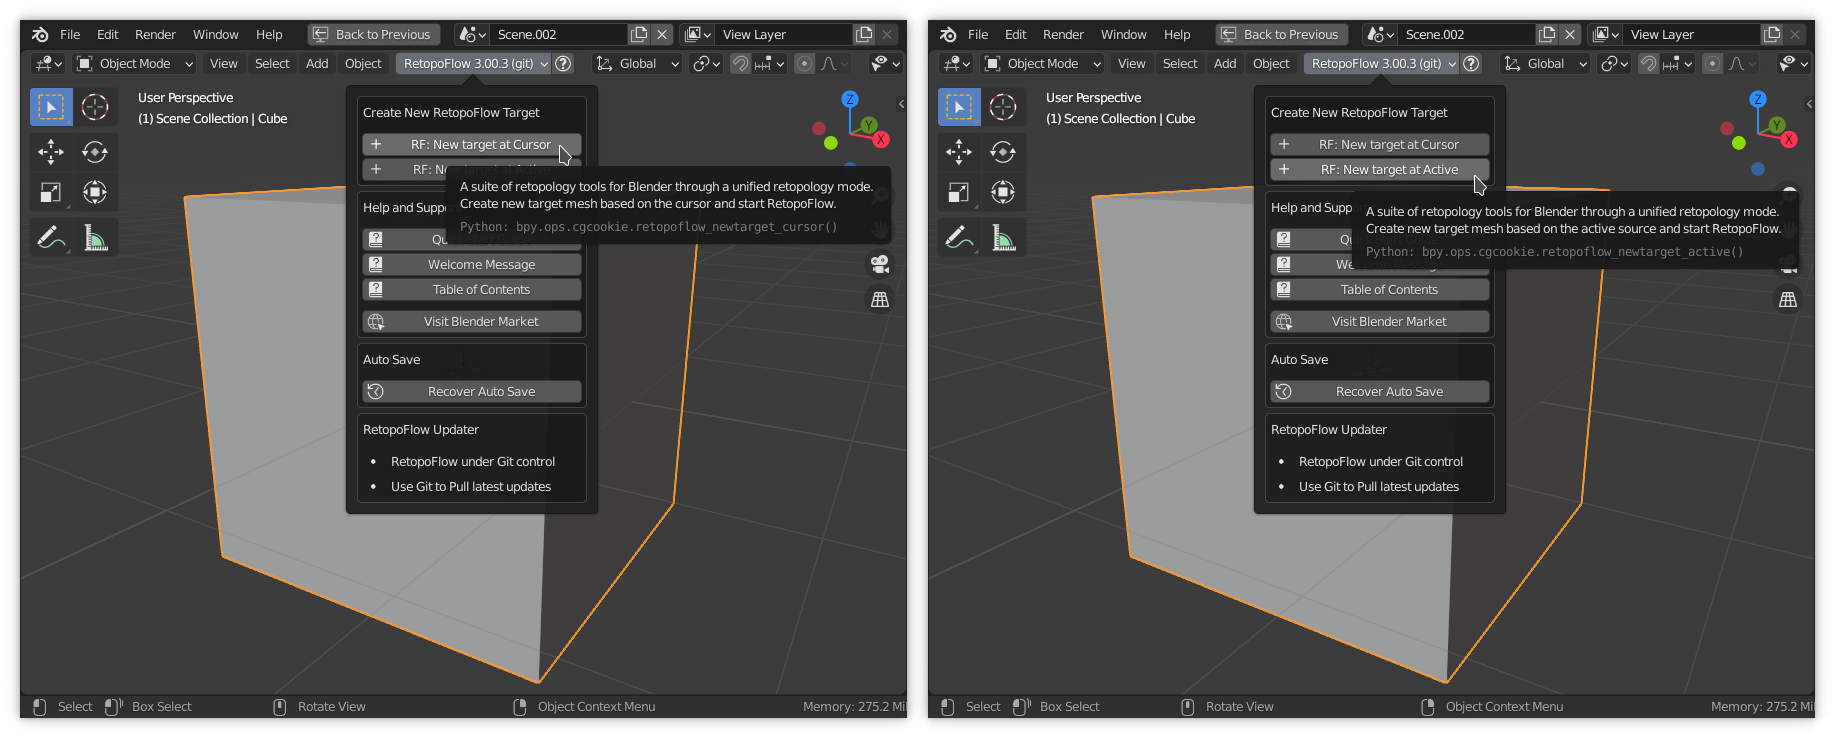
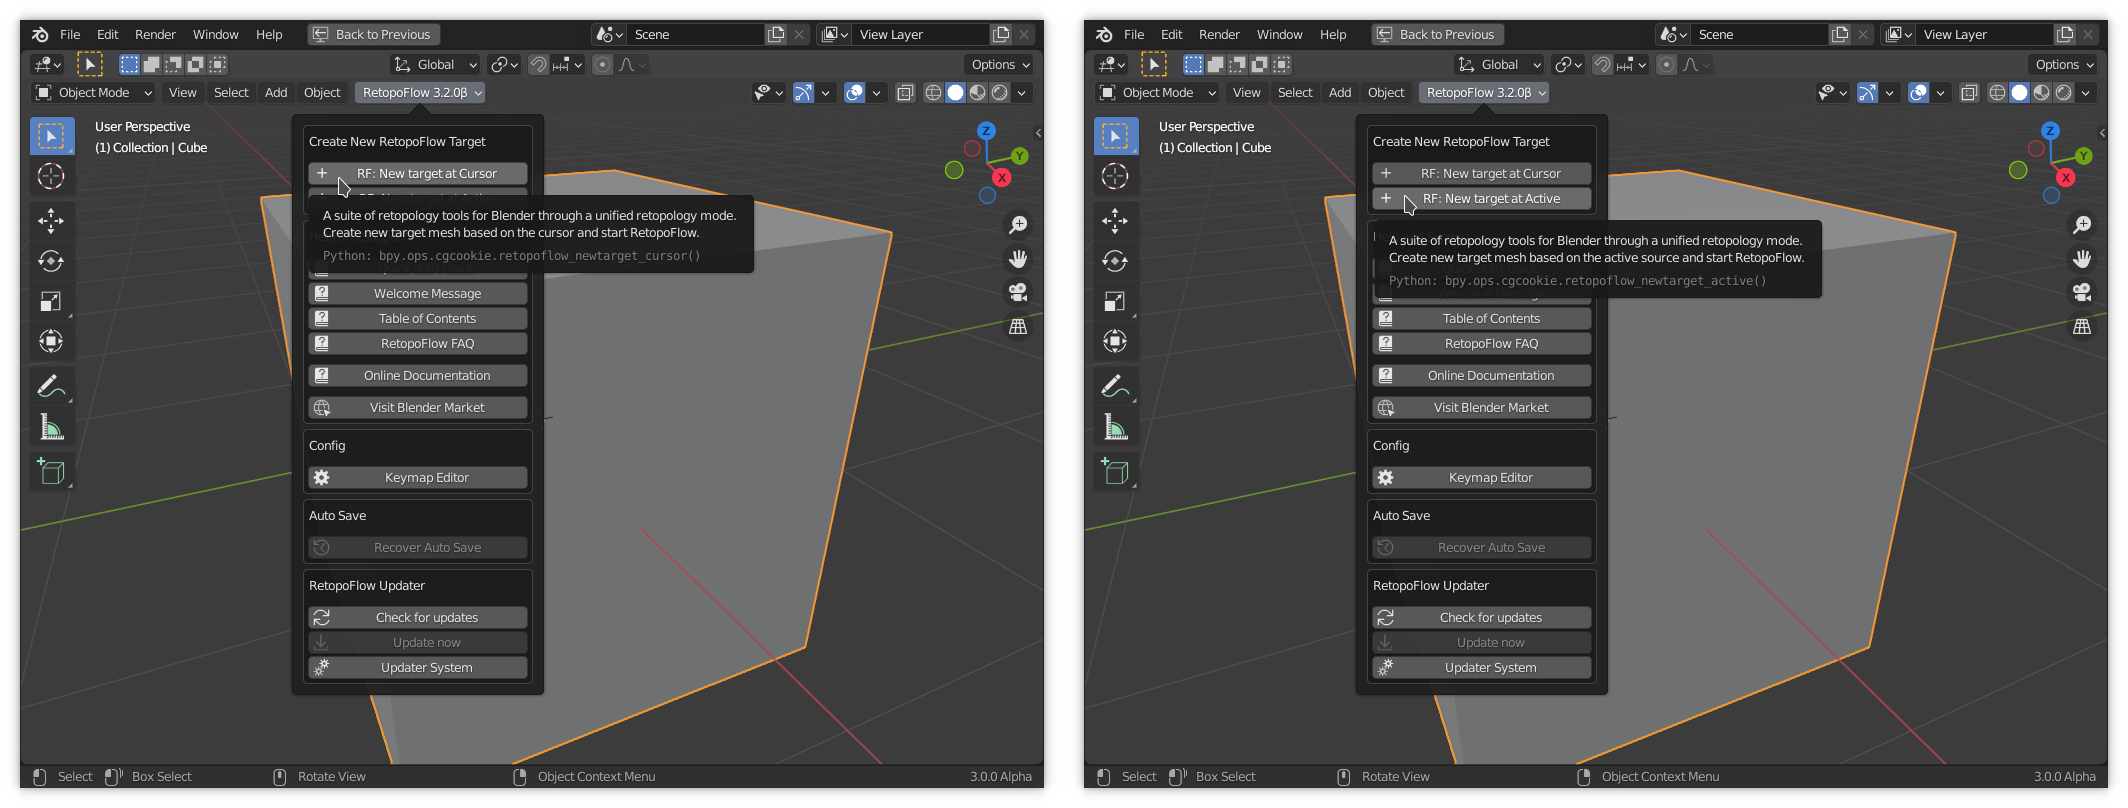
updated docs with new screenshots and version

diff --git a/docs/changelist.md b/docs/changelist.md
@@ -2,12 +2,12 @@
 
 This document contains details about what has changed in RetopoFlow since version 2.x.
 
-### RetopoFlow 3.1.0&rarr;3.1.1
+### RetopoFlow 3.1.0&rarr;3.2.0
 
+- Added builtin Keymap Editor (prototype)
 - Significantly improved performance of tools with large target meshes!
 - Now target mesh visualization will split (under the hood) when working on a small portion, improving feedback performance for some actions
 - Improved Updater System
-- Added builtin Keymap Editor (prototype)
 - Able to hide/reveal target mesh geometry
 - General code cleanup and refactoring
 - Works in Blender 2.83.0--3.0.0alpha (as of 2021.06.09)

diff --git a/help/quick_start.md b/help/quick_start.md
@@ -25,7 +25,9 @@ To continue working on a previous retopology session:
 
 1. Select the low-poly retopo target mesh
 2. Switch to Edit Mode
-3. Either click on the diamond (◆) next to the "RetopoFlow" menu or choose one of the tools from the dropdown menu
+3. Either click on the triangle over square button next to the "RetopoFlow" menu or choose one of the tools from the dropdown menu
+
+![](start_rf_quickstart.png max-height:100px)
 
 ![](start_rf_tool.png max-height:400px)
 

diff --git a/docs/quick_start.md b/docs/quick_start.md
@@ -25,7 +25,9 @@ To continue working on a previous retopology session:
 
 1. Select the low-poly retopo target mesh
 2. Switch to Edit Mode
-3. Either click on the diamond (◆) next to the "RetopoFlow" menu or choose one of the tools from the dropdown menu
+3. Either click on the triangle over square button next to the "RetopoFlow" menu or choose one of the tools from the dropdown menu
+
+![](start_rf_quickstart.png)
 
 ![](start_rf_tool.png)
 
